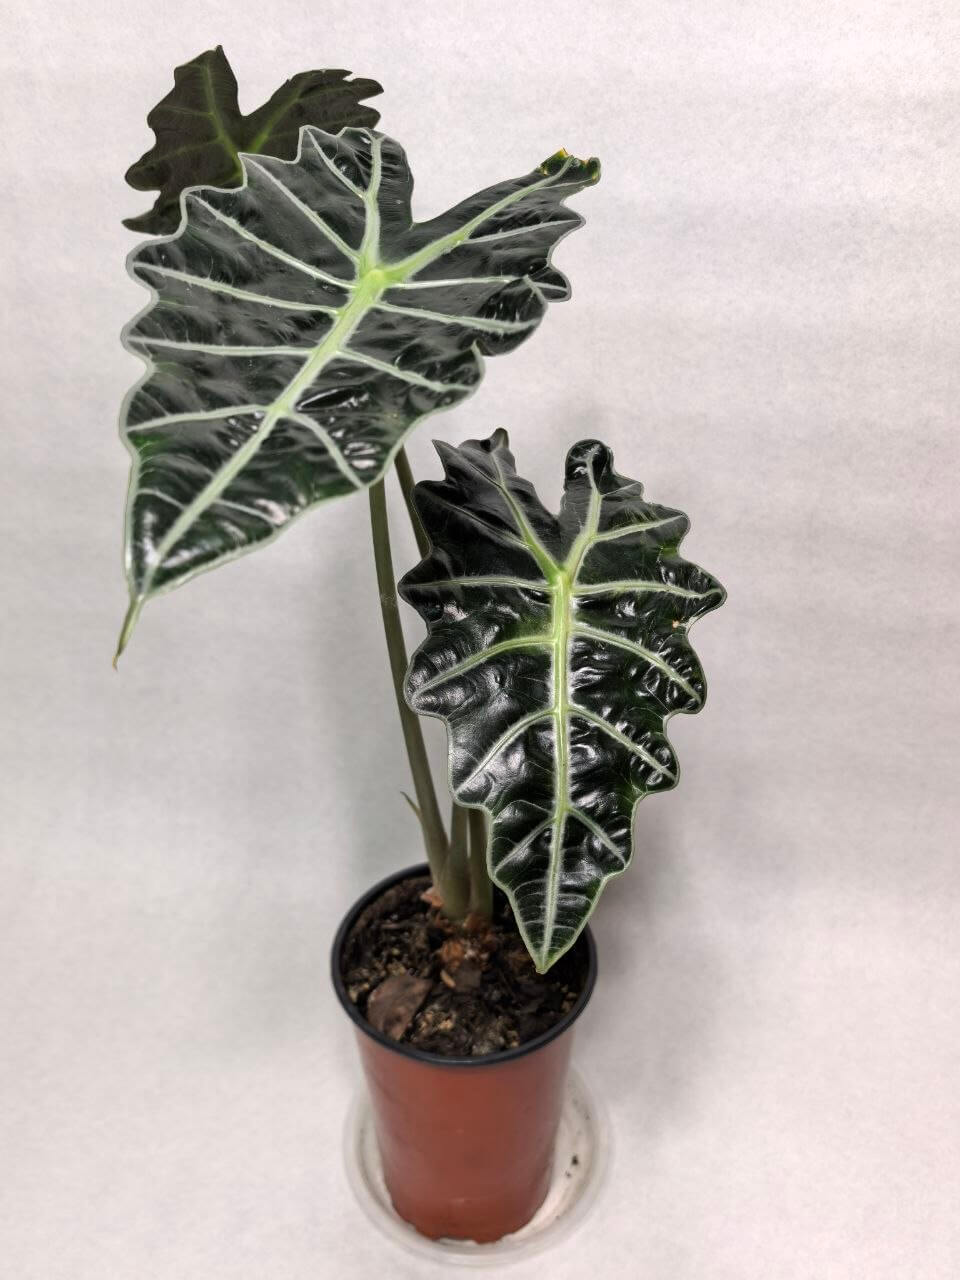
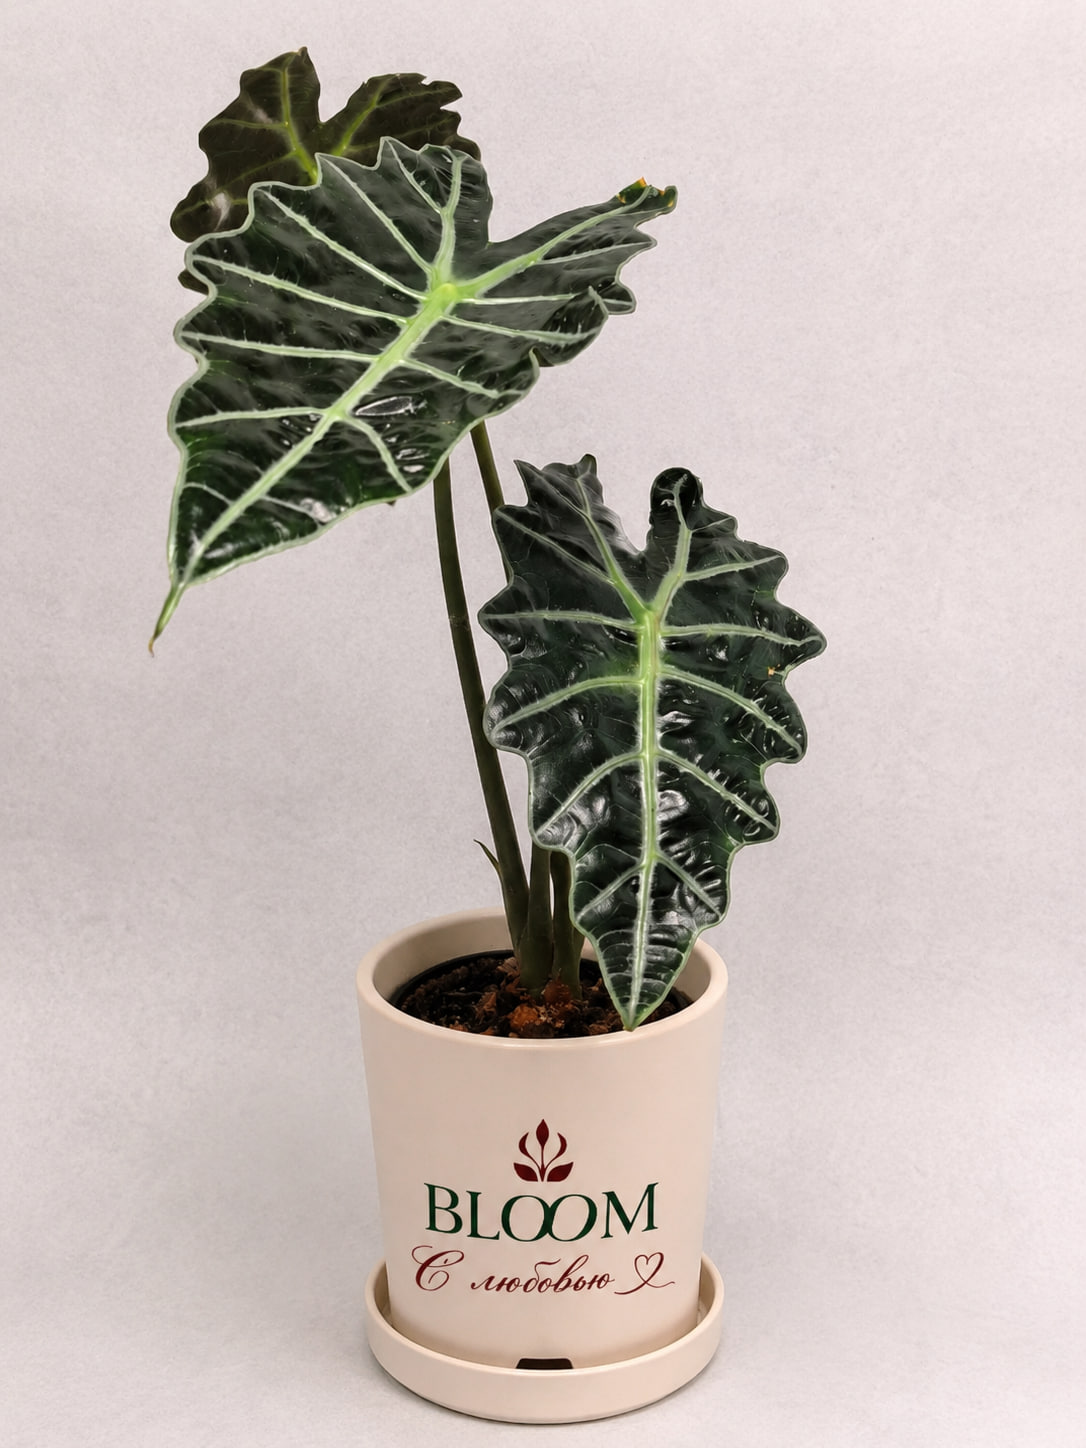
Add files via upload

diff --git a/app.js b/app.js
@@ -37,7 +37,7 @@ const plants = [
     image: 'images/Anthurium_Renaissance.jpg',
     price: 6500,
     category: ['rare', 'air', 'foliage'],
-    badge: 'Новинка',
+    badge: 'Хит',
     short: 'Редкий коллекционный сорт',
     desc: 'Каждый экземпляр уникален: бархатистые листья с выразительной формой. Одинаковых не существует.',
     care: ['Свет: яркий рассеянный', 'Полив: умеренный, после просыхания верхнего слоя почвы', 'Влажность: 60-70%', 'Температура: 20–25 °C']
@@ -46,7 +46,7 @@ const plants = [
     id: 3,
     name: 'Монстера «Медуза»',
     emoji: '🌳',
-    image: 'images/Bulbazavr.jpg',
+    image: 'images/meduza.png',
     price: 18000,
     category: ['rare', 'foliage'],
     badge: 'Новинка',
@@ -272,17 +272,40 @@ const plants = [
   },
   { 
     id: 22,
-    name: '', 
+    name: 'Антуриум «Ренессанс»',
+    emoji: '🍃',
+    image: 'images/Anthurium_Renaissance2.jpg',
+    price: 3500,
+    category: ['rare', 'air', 'foliage'],
+    badge: 'Хит',
+    short: 'Редкий коллекционный сорт',
+    desc: 'Каждый экземпляр уникален: бархатистые листья с выразительной формой. Одинаковых не существует.',
+    care: ['Свет: яркий рассеянный', 'Полив: умеренный, после просыхания верхнего слоя почвы', 'Влажность: 60-70%', 'Температура: 20–25 °C'] 
+  },
+  { 
+    id: 23,
+    name: 'Диффенбахия «Камуфляж»', 
     emoji: '🌿',
-    image: '', 
-    price: 0, 
-    category: [], 
+    image: 'images/kamuf.png', 
+    price: 1000, 
+    category: ['easy', 'air'], 
     badge: null, 
-    short: '',
-    desc: '', 
-    care: [] },
-  { id: 23, name: '', emoji: '🌿', image: '', price: 0, category: [], badge: null, short: '', desc: '', care: [] },
-  { id: 24, name: '', emoji: '🌿', image: '', price: 0, category: [], badge: null, short: '', desc: '', care: [] },
+    short: 'Смотрится стильно и живо в любом интерьере', 
+    desc: 'Эффектное растение с крупными листьями в камуфляжной расцветке — тёмно-зелёный фон с хаотичными светлыми пятнами.', 
+    care: ['Свет: яркий рассеянный', 'Полив: после подсыхания верхнего слоя грунта', 'Влажность: средняя, любит опрыскивание', 'Температура: 18–26 °C'] 
+  },
+  { 
+    id: 24,
+    name: 'Диффенбахия «Камуфляж»', 
+    emoji: '🌿',
+    image: 'images/kamuf2.png', 
+    price: 3200, 
+    category: ['easy', 'air'], 
+    badge: null, 
+    short: 'Смотрится стильно и живо в любом интерьере', 
+    desc: 'Эффектное растение с крупными листьями в камуфляжной расцветке — тёмно-зелёный фон с хаотичными светлыми пятнами.', 
+    care: ['Свет: яркий рассеянный', 'Полив: после подсыхания верхнего слоя грунта', 'Влажность: средняя, любит опрыскивание', 'Температура: 18–26 °C'] 
+  },
   { id: 25, name: '', emoji: '🌿', image: '', price: 0, category: [], badge: null, short: '', desc: '', care: [] },
   { id: 26, name: '', emoji: '🌿', image: '', price: 0, category: [], badge: null, short: '', desc: '', care: [] },
   { id: 27, name: '', emoji: '🌿', image: '', price: 0, category: [], badge: null, short: '', desc: '', care: [] },

diff --git a/styles.css b/styles.css
@@ -517,6 +517,38 @@ body {
 }
 body.tg-dark .soil-btn { background: #1a2e24; border-color: var(--primary-light); }
 
+.pot-btn {
+  opacity: 0.7;
+  cursor: not-allowed;
+  border-style: solid;
+  border-color: #c5d9cc;
+  background: #f5f7f5;
+  margin-bottom: 14px;
+}
+.pot-btn:active { background: #f5f7f5; }
+.pot-btn .soil-btn-text strong { color: var(--text-secondary); }
+.pot-btn .soil-btn-text small { color: #9b5de5; font-weight: 600; }
+.pot-btn .pot-soon {
+  background: #e9ecef;
+  color: #6c757d;
+  font-size: 14px;
+}
+.pot-icon {
+  width: 36px;
+  height: 36px;
+  object-fit: contain;
+  border-radius: 6px;
+  flex-shrink: 0;
+}
+body.tg-dark .pot-btn {
+  background: #252527;
+  border-color: #3a3a3c;
+}
+body.tg-dark .pot-btn .pot-soon {
+  background: #3a3a3c;
+  color: #98989f;
+}
+
 .cart-footer {
   padding: 16px 20px 20px;
   border-top: 1px solid var(--border);

diff --git a/index.html b/index.html
@@ -81,6 +81,16 @@
           </span>
           <span class="soil-btn-plus">+</span>
         </button>
+
+        <button class="soil-btn pot-btn" disabled>
+          <img src="images/pot-bloom.png" alt="Горшок BLOOM" class="pot-icon">
+          <span class="soil-btn-text">
+            <strong>В горшке BLOOM</strong>
+            <small>Ждём поставки</small>
+          </span>
+          <span class="soil-btn-plus pot-soon">⏳</span>
+        </button>
+
         <div class="cart-total">
           <span>Итого:</span>
           <strong id="cartTotal">0 ₽</strong>
